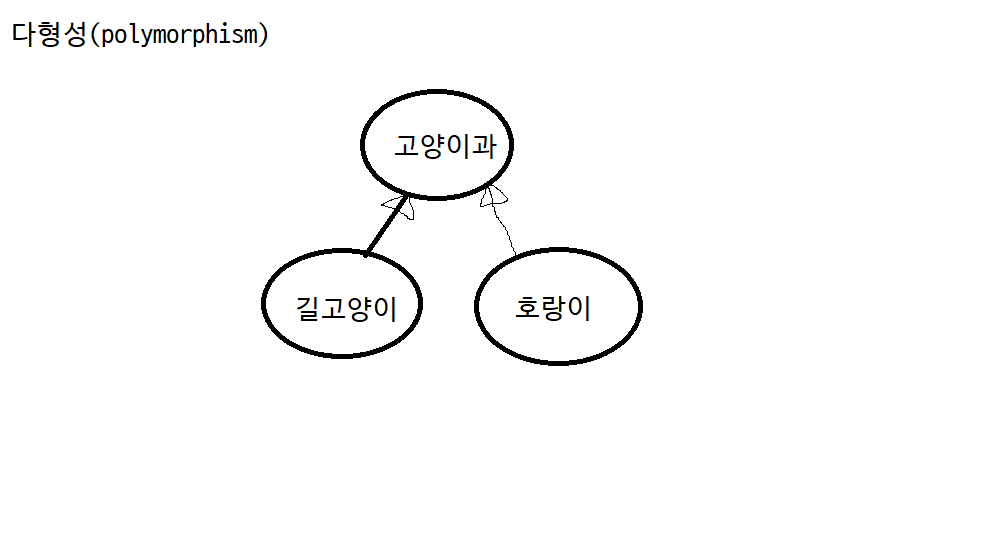
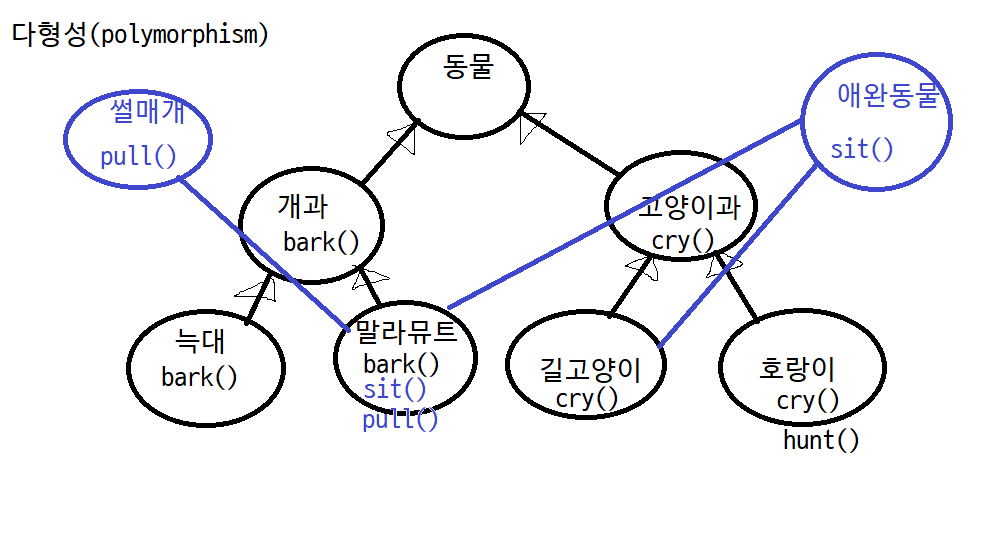
Casting

diff --git a/src/p08/lecture/ex5/A01TypeCasting.java b/src/p08/lecture/ex5/A01TypeCasting.java
@@ -1,0 +1,40 @@
+package p08.lecture.ex5;
+
+public class A01TypeCasting {
+	public static void main(String[] args) {
+		Malamute dog1 = new Malamute();
+		dog1.bark();
+		dog1.sit();
+		dog1.pull();
+		
+		System.out.println("=============");
+		Pet p1 =dog1;
+		//p1.bark();
+		p1.sit();
+		//pi.pull();
+		
+		System.out.println("=============");
+		SledDog s1= dog1;
+		//s1.bark();
+		//s1.sit();
+		s1.pull();
+		
+		System.out.println("=============");
+		KindaDog k1 =dog1;
+		k1.bark();
+		//k1.sit();
+		//k1.pull();
+		
+		System.out.println("==강제타입변환===");
+	//구현클래스 변수 = (구현클래스) 인터페이스변수
+		Malamute dog2 = (Malamute) k1; 
+		dog2.bark();
+		dog2.sit();
+		dog2.pull();
+		
+		System.out.println("==강제타입변환===");
+		Wolf w1 =(Wolf) k1;
+		w1.bark();
+		System.out.println("프로그램 종료");
+	}
+}

diff --git a/src/p08/lecture/ex5/A02Instanceof.java b/src/p08/lecture/ex5/A02Instanceof.java
@@ -1,0 +1,21 @@
+package p08.lecture.ex5;
+
+public class A02Instanceof {
+	public static void main(String[] args) {
+		KindaDog d1 = new Malamute();
+		
+		System.out.println("===객체타입확인===");
+		System.out.println("객체 instanceof 타입");
+		System.out.println(d1 instanceof KindaDog);
+		System.out.println(d1 instanceof Malamute);
+		System.out.println(d1 instanceof Pet);
+		System.out.println(d1 instanceof Wolf);
+		System.out.println("위에 결과가 true가 나오면 강제형변환가능하다는소리");
+		
+		Malamute m1 = (Malamute) d1;
+		Pet p1 =(Pet) d1;
+		SledDog s1 = (SledDog) d1;
+		//Wolf w1 =(Wolf) d1; 컴파일 에러
+		System.out.println("프로그램종료");
+	}
+}

diff --git a/src/p08/textbook/exrcise/ex4/MySqlDao.java b/src/p08/textbook/exrcise/ex4/MySqlDao.java
@@ -1,0 +1,23 @@
+package p08.textbook.exrcise.ex4;
+
+public class MySqlDao implements DateAccessObject {
+	@Override
+	public void select() {
+		System.out.println("MySqlDao에서 DB 검색");
+	}
+	@Override
+	public void insert() {
+		System.out.println("MySqlDao에서 DB 산입");
+	}
+	@Override
+	public void update() {
+		System.out.println("MySqlDao에서 DB 수정");
+		
+	}
+	@Override
+	public void delete() {
+		System.out.println("MySqlDao에서 DB 삭제");		
+	}
+	
+	
+}

diff --git a/src/p08/textbook/exrcise/ex4/OracleDao.java b/src/p08/textbook/exrcise/ex4/OracleDao.java
@@ -1,0 +1,21 @@
+package p08.textbook.exrcise.ex4;
+
+public class OracleDao implements DateAccessObject {
+	@Override
+	public void select() {
+		System.out.println("Oracle에서 DB 검색");
+	}
+	@Override
+	public void insert() {
+		System.out.println("Oracle에서 DB 산입");
+	}
+	@Override
+	public void update() {
+		System.out.println("Oracle에서 DB 수정");
+		
+	}
+	@Override
+	public void delete() {
+		System.out.println("Oracle에서 DB 삭제");		
+	}
+}

diff --git a/src/p08/lecture/ex5/Malamute.java b/src/p08/lecture/ex5/Malamute.java
@@ -1,0 +1,19 @@
+package p08.lecture.ex5;
+
+public class Malamute extends KindaDog implements Pet, SledDog {
+	
+	@Override
+	public void bark() {
+		System.out.println("멍멍멍멍");
+	}
+	
+	@Override
+	public void sit() {
+		System.out.println("앉습니다");
+	}
+	
+	@Override
+	public void pull() {
+		System.out.println("설매를 끌다");
+	}
+}

diff --git a/src/p08/textbook/s080506/Driver.java b/src/p08/textbook/s080506/Driver.java
@@ -1,0 +1,11 @@
+package p08.textbook.s080506;
+
+public class Driver {
+	public void darive(Vehicle vehicle) { //Vehicle타입을 vehicle로받음
+		if(vehicle instanceof Bus) { // vehicle참조값이 Bus타입이면
+			Bus bus =(Bus) vehicle;  //vehicle bus로 강제타입변환
+			bus.checkFare();
+		}
+		vehicle.run();
+	}
+}	

diff --git a/src/p08/textbook/exrcise/ex4/DaoExample.java b/src/p08/textbook/exrcise/ex4/DaoExample.java
@@ -1,0 +1,14 @@
+package p08.textbook.exrcise.ex4;
+
+public class DaoExample {
+	public static void dbWork(DateAccessObject dao) {
+		dao.select();
+		dao.insert();
+		dao.update();
+		dao.delete();
+	}
+	public static void main(String[] args) {
+		dbWork(new OracleDao());
+		dbWork(new MySqlDao());
+	}
+}

diff --git a/src/p08/textbook/exrcise/ex3/SoundableExample.java b/src/p08/textbook/exrcise/ex3/SoundableExample.java
@@ -1,0 +1,12 @@
+package p08.textbook.exrcise.ex3;
+
+public class SoundableExample {
+	
+	private static void printSound(Soundable soundable) {
+		System.out.println(soundable.sound());
+	}
+	public static void main(String[] args) {
+		printSound(new Cat());
+		printSound(new Dog());
+	}
+}

diff --git a/src/p08/textbook/s080505/VehicleExample.java b/src/p08/textbook/s080505/VehicleExample.java
@@ -1,0 +1,13 @@
+package p08.textbook.s080505;
+
+public class VehicleExample {
+	public static void main(String[] args) {
+			Vehicle vehicle= new Bus();
+			vehicle.run();
+			//vehicle.checkFare(); 
+			
+			Bus bus = (Bus) vehicle;
+			bus.run();
+			bus.checkFare();
+	}
+}

diff --git a/src/p08/textbook/s080506/Bus.java b/src/p08/textbook/s080506/Bus.java
@@ -1,0 +1,11 @@
+package p08.textbook.s080506;
+
+public class Bus implements Vehicle{
+	@Override
+	public void run() {
+		System.out.println("버스가 달립니다~부릉");	
+	}
+	public void checkFare() {
+		System.out.println("승차요금을 체크합니다");
+	}
+}

diff --git a/src/p08/textbook/s080505/Bus.java b/src/p08/textbook/s080505/Bus.java
@@ -1,0 +1,12 @@
+package p08.textbook.s080505;
+
+public class Bus implements Vehicle {
+	@Override
+	public void run() {
+		System.out.println("버스가 브릉브릉");	
+	}
+	
+	public void checkFare() {
+		System.out.println("승차요금을 확인합니다.");
+	}
+}

diff --git a/src/p08/textbook/s080506/DiverExample.java b/src/p08/textbook/s080506/DiverExample.java
@@ -1,0 +1,9 @@
+package p08.textbook.s080506;
+
+public class DiverExample {
+	public static void main(String[] args) {
+		Driver diver = new Driver();
+		diver.darive(new Bus());
+		diver.darive(new Taxi());
+	}
+}
